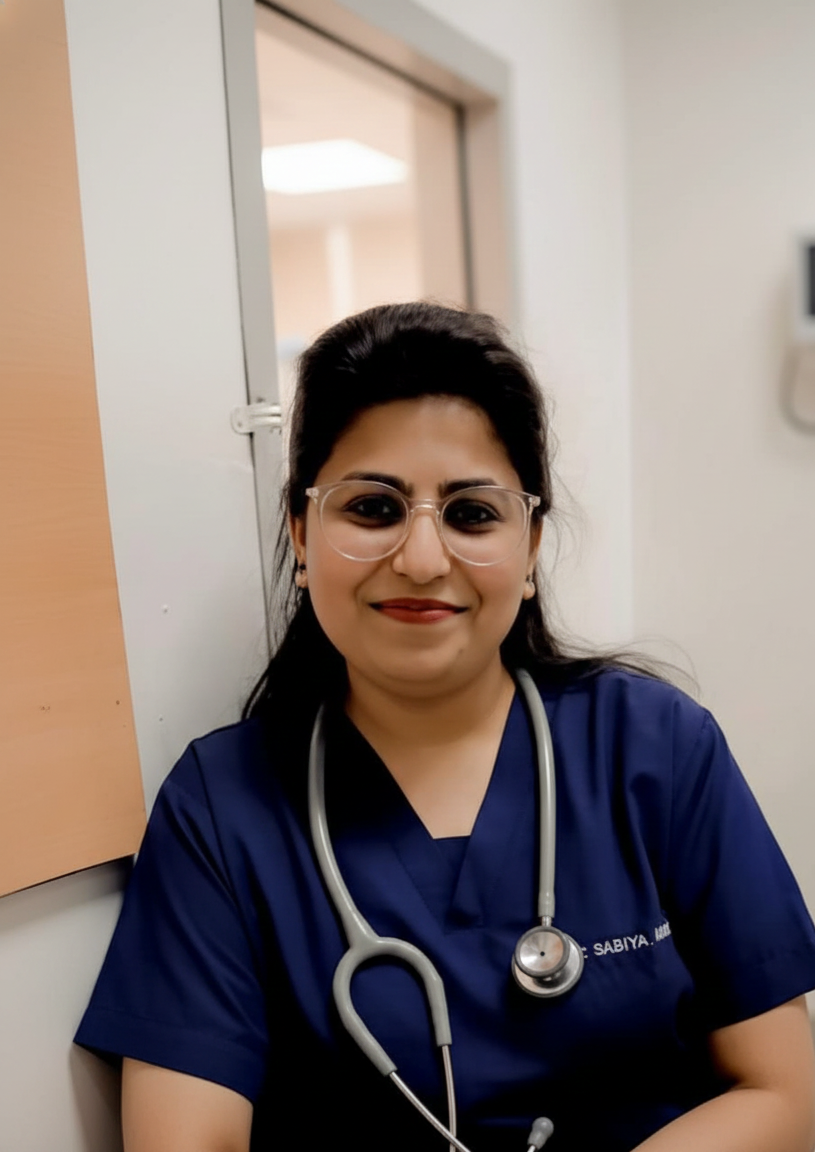
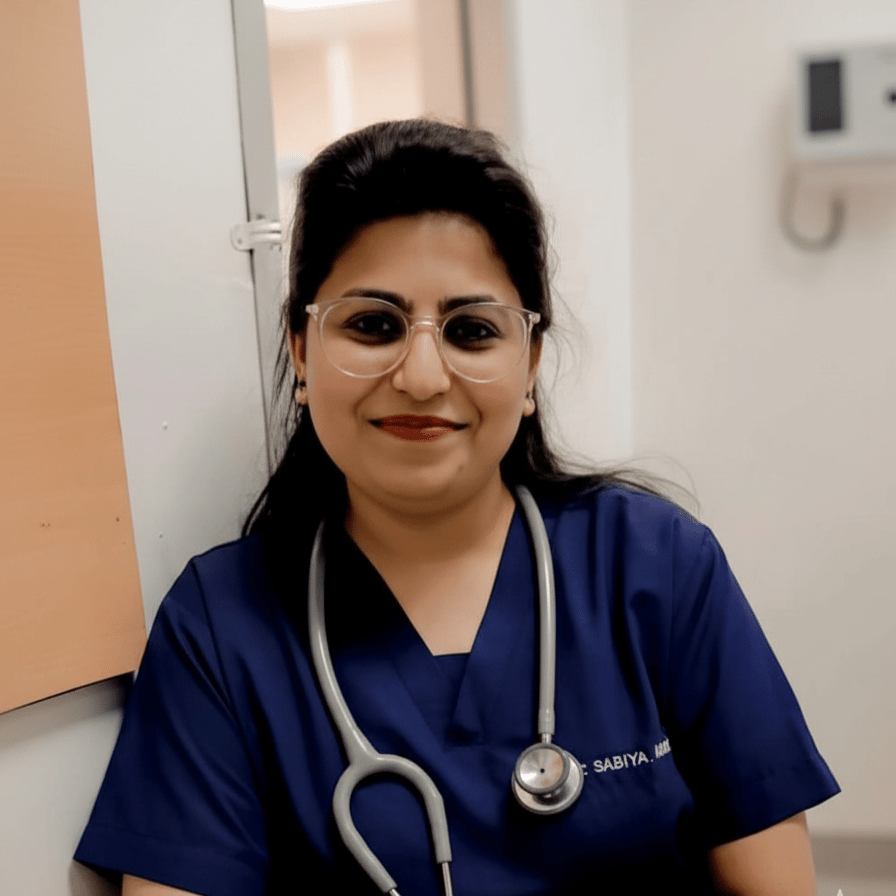
Compress Images Size and fix SEO In home Page

diff --git a/src/app/layout.js b/src/app/layout.js
@@ -12,8 +12,40 @@ const geistMono = Geist_Mono({
 });
 
 export const metadata = {
-  title: "Quick Home Doctor",
-  description: "Quick Home Doctor",
+  // ⭐ REQUIRED to remove warning & fix OG image absolute URL
+  metadataBase: new URL("https://quickhomedoctor.com"),
+
+  title: "Home Doctor & Nurse Visit | Delhi, Noida, Ghaziabad | Quick Home Doctor",
+  description:
+    "Doctor and nurse home visit within 30 minutes in Delhi NCR. 24/7 medical care at home.",
+
+  // ⭐ OPEN GRAPH (Facebook, WhatsApp, LinkedIn)
+  openGraph: {
+    title: "Quick Home Doctor – Doctor & Nurse Home Visit in Delhi NCR",
+    description:
+      "24/7 Doctor/Nurse Home Visit Service in Delhi, Noida, Ghaziabad. Quick, Reliable & Trusted.",
+    url: "https://quickhomedoctor.com",
+    siteName: "Quick Home Doctor",
+    images: [
+      {
+        url: "/ogImage.png",
+        width: 1200,
+        height: 630,
+      },
+    ],
+    type: "website",
+  },
+
+  // ⭐ TWITTER CARD
+  twitter: {
+    card: "summary_large_image",
+    title: "Quick Home Doctor – Home Visit Doctor/Nurse",
+    description:
+      "24/7 Home Visit Doctors & Nurses in Delhi NCR. Fast, professional medical care.",
+    images: ["/ogImage.png"],
+  },
+
+  // ⭐ FAVICON / LOGO
   icons: {
     icon: "/logo.ico",
     shortcut: "/logo.ico",
@@ -21,17 +53,54 @@ export const metadata = {
   },
 };
 
+
 export default function RootLayout({ children }) {
   return (
     <html lang="en">
+      <head>
+        {/* Organization Schema */}
+        <script
+          type="application/ld+json"
+          dangerouslySetInnerHTML={{
+            __html: JSON.stringify({
+              "@context": "https://schema.org",
+              "@type": "Organization",
+              name: "Quick Home Doctor",
+              url: "https://quickhomedoctor.com",
+              logo: "https://quickhomedoctor.com/logo.ico",
+              contactPoint: {
+                "@type": "ContactPoint",
+                telephone: "+917303771900",
+                contactType: "customer support",
+              },
+            }),
+          }}
+        />
+
+        {/* Local Business Schema */}
+        <script
+          type="application/ld+json"
+          dangerouslySetInnerHTML={{
+            __html: JSON.stringify({
+              "@context": "https://schema.org",
+              "@type": "MedicalBusiness",
+              name: "Quick Home Doctor",
+              telephone: "+917303771900",
+              address: {
+                "@type": "PostalAddress",
+                addressLocality: "Delhi NCR",
+                addressCountry: "IN",
+              },
+            }),
+          }}
+        />
+      </head>
+
       <body
         className={`${geistSans.variable} ${geistMono.variable} antialiased`}
       >
         {/* CALL BUTTON */}
-        <a
-          href="tel:+7303771900"
-          className="call-float"
-        >
+        <a href="tel:+7303771900" className="call-float">
           <img
             src="https://cdn-icons-png.flaticon.com/512/724/724664.png"
             alt="Call"

diff --git a/src/app/home-visits/[city]/page.jsx b/src/app/home-visits/[city]/page.jsx
@@ -40,6 +40,7 @@ export default function CityPage() {
     <Image
       src={data.image}
       alt={data.city}
+      quality={70}
       fill
       priority
       className="object-cover object-right brightness-95"
@@ -103,6 +104,7 @@ export default function CityPage() {
     <Image
       src={data.image}
       fill
+      quality={70}
       alt={data.city}
       className="object-cover object-center brightness-90"
     />
@@ -115,11 +117,11 @@ export default function CityPage() {
     transition={{ duration: 0.7 }}
     className="p-6 bg-white/95 shadow-xl rounded-2xl mx-4 -mt-12 relative z-10"
   >
-    <h1 className="text-3xl font-extrabold text-[#005f5e] leading-snug text-center">
+    <h2 className="text-3xl font-extrabold text-[#005f5e] leading-snug text-center">
       {data.title}
       <br />
       IN {data.city}
-    </h1>
+    </h2>
 
     <ul className="mt-5 space-y-2 text-gray-700 font-medium">
       {data.bulletPoints.map((item, i) => (

diff --git a/src/components/AboutSection.jsx b/src/components/AboutSection.jsx
@@ -8,7 +8,7 @@ import { FiChevronDown } from "react-icons/fi";
 export default function AboutQuickHomeDoctor() {
     const images = [
         "/home-visits/home-visit-noida.png",
-        "/home-visits/home-visit-delhi-ncr.jpg",
+        "/home-visits/home-visit-delhi-ncr.png",
         "/img2.png",
     ];
 
@@ -141,6 +141,7 @@ export default function AboutQuickHomeDoctor() {
                                 src={images[index]}
                                 alt="Doctor Team"
                                 fill
+                                quality={70}
                                 className="object-cover"
                             />
                         </motion.div>

diff --git a/src/components/Navbar.jsx b/src/components/Navbar.jsx
@@ -97,9 +97,9 @@ export default function Navbar() {
                 />
               </motion.div>
               <div>
-                <h1 className="text-gray-900 text-xl font-bold sm:text-2xl md:text-2xl leading-tight">
+                <h2 className="text-gray-900 text-xl font-bold sm:text-2xl md:text-2xl leading-tight">
                   QuickHomeDoctor
-                </h1>
+                </h2>
                 <p className="text-gray-500 font-medium text-[8px] sm:text-[10px] md:text-xs leading-tight">
                   Expert doctor at home in 15 min
                 </p>

diff --git a/src/app/services/[slug]/page.jsx b/src/app/services/[slug]/page.jsx
@@ -86,6 +86,7 @@ export default function ServicePage() {
         <Image
           src={service.heroImage}
           fill
+          quality={70}
           alt={service.title}
           className="object-cover brightness-[0.45]"
         />
@@ -139,6 +140,7 @@ export default function ServicePage() {
             <Image
               src={service.sectionImage}
               width={650}
+              quality={70}
               height={450}
               className="rounded-2xl shadow-xl object-cover"
               alt="service section"

diff --git a/src/app/home-visits/content.js b/src/app/home-visits/content.js
@@ -8,7 +8,7 @@ export const cityContent = {
             "Personalized Care",
         ],
         image:
-            "/img2.png", // unsplash image
+            "/img2.png", 
     },
 
     delhiNcr: {
@@ -20,7 +20,7 @@ export const cityContent = {
             "Expert Qualified Doctors",
         ],
         image:
-            "/home-visits/home-visit-delhi-ncr.jpg",
+            "/home-visits/home-visit-delhi-ncr.png",
     },
 
     gurugram: {

diff --git a/src/components/DoctorsCarousel.jsx b/src/components/DoctorsCarousel.jsx
@@ -127,6 +127,7 @@ export default function DoctorsCarousel() {
                                 src={current.img}
                                 alt={current.name}
                                 fill
+                                quality={70}
                                 className="object-cover object-top rounded-xl"
                             />
                         </div>

diff --git a/src/components/Our-doctors-Card.jsx b/src/components/Our-doctors-Card.jsx
@@ -107,6 +107,7 @@ export default function DoctorsSection() {
                                 src={doc.img}
                                 alt={doc.name}
                                 fill
+                                quality={70}
                                 className="object-cover object-top"
                                 priority
                             />

diff --git a/src/components/BookAppointment.jsx b/src/components/BookAppointment.jsx
@@ -215,6 +215,7 @@ export default function BookAppointment() {
                         <Image
                             src="/img2.png"
                             alt="Doctor"
+                            quality={70}
                             width={200}
                             height={200}
                             className="object-cover h-full"

diff --git a/src/components/Hero.jsx b/src/components/Hero.jsx
@@ -85,6 +85,7 @@ export default function Hero() {
                     src="/1.png"
                     alt="Hospital Background"
                     fill
+                    quality={70}
                     className="object-cover object-center brightness-[0.62]"
                     priority
                 />

diff --git a/src/components/LatestBlog.jsx b/src/components/LatestBlog.jsx
@@ -79,6 +79,7 @@ export default function LatestBlogs() {
               {/* IMAGE */}
               <div className="relative w-full h-56">
                 <Image
+                quality={70}
                   src={blog.image}
                   alt={blog.title}
                   fill

diff --git a/src/components/About-Us.jsx b/src/components/About-Us.jsx
@@ -57,6 +57,7 @@ export default function AboutSection() {
                     src="/2.png"
                     alt="About QuickHomeDoctor"
                     fill
+                    quality={70}
                     className="brightness-[0.55] object-cover"
                 />
 
